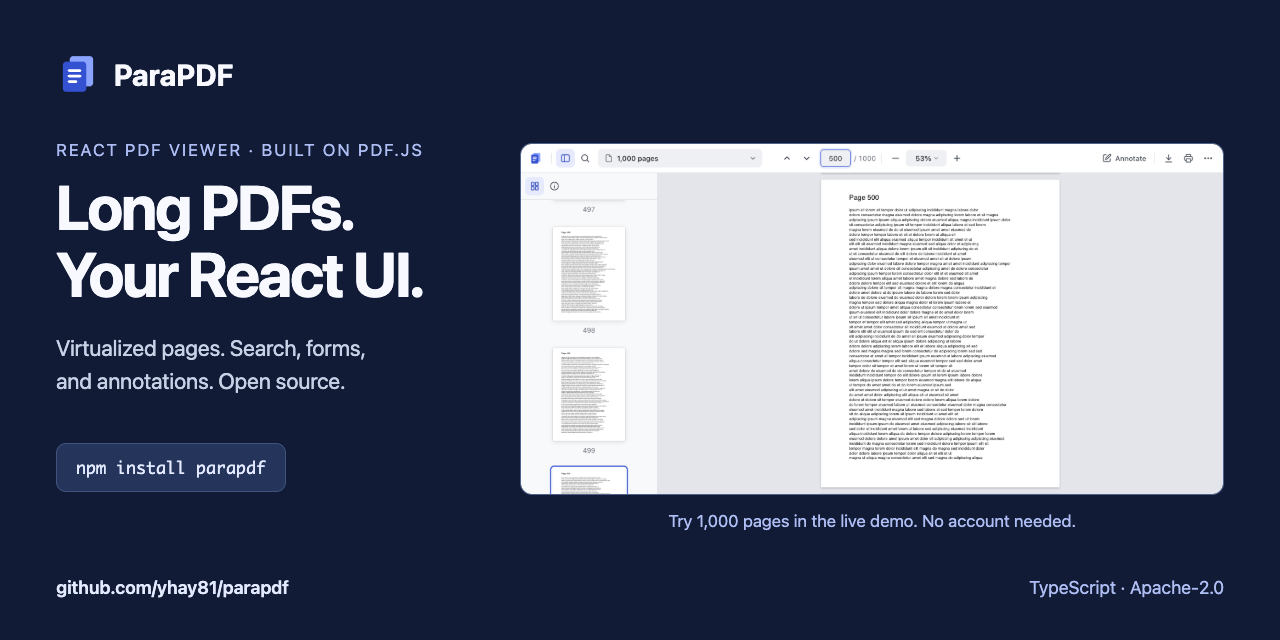
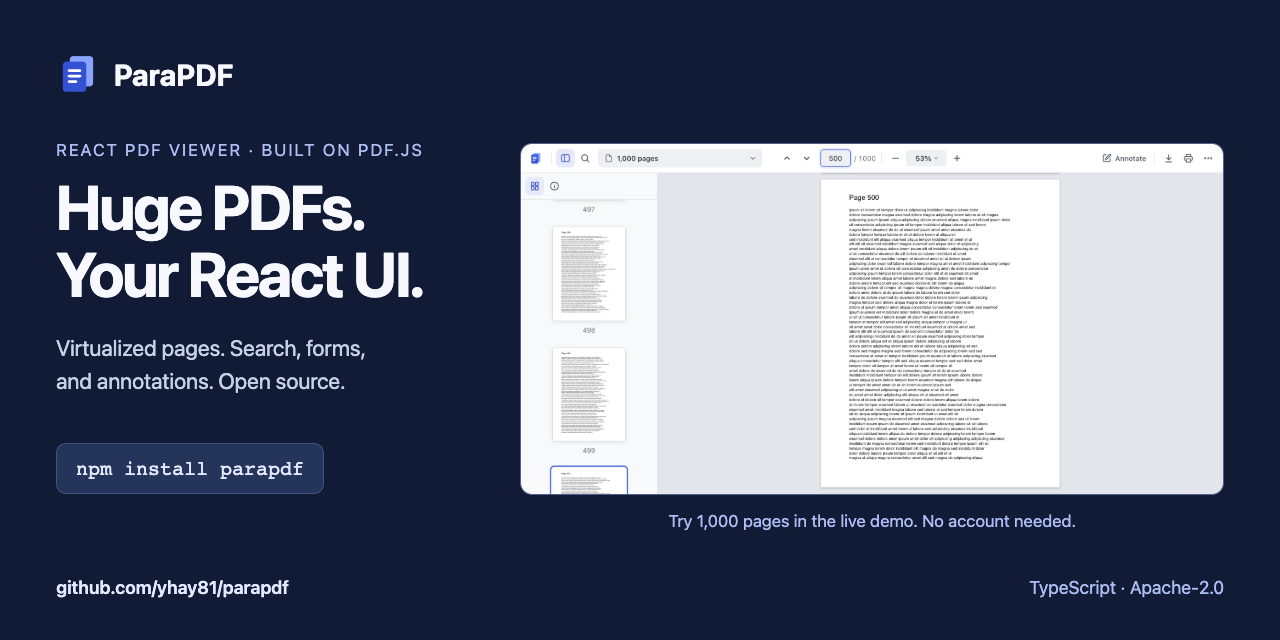
Explain ParaPDF advantages for huge PDFs over react-pdf

Changed region(s): [[0.0312, 0.2812, 0.2812, 0.375], [0.0625, 0.6875, 0.25, 0.7812]]

diff --git a/.github/assets/social-preview.html b/.github/assets/social-preview.html
@@ -41,7 +41,7 @@
         ParaPDF
       </div>
       <p class="category">REACT PDF VIEWER · BUILT ON PDF.JS</p>
-      <h1>Long PDFs.<br />Your React UI.</h1>
+      <h1>Huge PDFs.<br />Your React UI.</h1>
       <p class="description">Virtualized pages. Search, forms,<br />and annotations. Open source.</p>
       <code class="install">npm install parapdf</code>
       <figure class="preview">

diff --git a/README.md b/README.md
@@ -1,6 +1,6 @@
 # ParaPDF
 
-A fast, customizable **React PDF viewer**, built on
+A fast, customizable **React PDF viewer for huge documents**, built on
 [pdf.js](https://github.com/mozilla/pdf.js). Virtualized pages, text selection,
 search, forms, and annotations, with your own React UI.
 
@@ -9,7 +9,7 @@ search, forms, and annotations, with your own React UI.
 · [Performance](https://parapdf.yhay81.com/about/performance/)
 · [npm](https://www.npmjs.com/package/parapdf)
 
-[![ParaPDF: Long PDFs. Your React UI. The live demo shows page 500 of a 1,000-page PDF.](.github/assets/social-preview.png)](https://parapdf.yhay81.com/demo/?file=synthetic-text-1000.pdf)
+[![ParaPDF: Huge PDFs. Your React UI. The live demo shows page 500 of a 1,000-page PDF.](.github/assets/social-preview.png)](https://parapdf.yhay81.com/demo/?file=synthetic-text-1000.pdf)
 
 The demo needs no account. Try the
 [1,000-page document](https://parapdf.yhay81.com/demo/?file=synthetic-text-1000.pdf),
@@ -50,13 +50,32 @@ You build the toolbar and surrounding UI. The
 > npm package; `main` may contain unreleased API changes. See the
 > [changelog](CHANGELOG.md) and [limitations](https://parapdf.yhay81.com/about/limitations/).
 
-## Why ParaPDF?
+## Why not just react-pdf?
+
+[react-pdf](https://github.com/wojtekmaj/react-pdf) gives applications
+`Document` and `Page` components. Its
+[FAQ](https://github.com/wojtekmaj/react-pdf/wiki/Frequently-Asked-Questions#rendering-pdf-is-too-slow-what-can-i-do)
+recommends virtualization for large documents. Our comparison adds
+react-window to do that, so both viewers mount only a window of pages.
+
+ParaPDF needs more than a limit on mounted pages: huge PDFs also need
+control over which pages draw first, how much canvas memory they hold,
+and what happens when the reader zooms or returns to a page. For example,
+[react-pdf 11.0.0 releases a page's canvas when it unmounts](https://github.com/wojtekmaj/react-pdf/blob/v11.0.0/packages/react-pdf/src/Page/Canvas.tsx),
+so remounting draws it again. Adding a shared canvas cache and drawing
+policy would require more viewer infrastructure around those components.
+
+ParaPDF provides that infrastructure on top of the same pdf.js engine:
 
 - **React stays out of the hot path.** Scrolling and zooming commit no React
   state per frame, and pixels never pass through React.
-- **Long documents, bounded rendering.** Pages outside a small window
-  unmount. Visible pages draw a quick base first and full resolution once
-  scrolling settles. Canvas budgets also cover pages kept for a return visit.
+- **Huge documents, bounded rendering.** Pages outside a small window
+  unmount. Visible pages get drawing priority: a quick base first and full
+  resolution once scrolling settles. At high zoom, only the visible region
+  gets full detail within the canvas budget.
+- **Keep work for a return visit.** Unmounted pages retain their canvases
+  within a shared budget. Returning to a page whose canvases are still
+  cached reuses those pixels without drawing them again.
 - **Viewers of their own.** Several viewers and thumbnails share one open
   document, each with its own position, zoom, rotation, and layout.
 - **A document viewer.** Selectable, accessible text, search, links and the
@@ -68,22 +87,28 @@ You build the toolbar and surrounding UI. The
 
 ## Performance, with the trade-offs
 
-An existing comparison with **react-pdf + react-window**, with both viewers
-virtualizing pages: a 110-page PDF at 900 CSS px/s for four seconds, five
-runs, medians, Chromium 156 on an Apple M2 Pro, October 28, 2026.
+In an existing **1,000-page** comparison, ParaPDF used **about 55% less
+canvas memory** and made **about 44% fewer React commits** than
+**react-pdf + react-window** during fast scrolling.
+
+Both viewers virtualized pages. Conditions: 3,600 CSS px/s for four seconds,
+five runs, medians, Chromium 156 on an Apple M2 Pro, 1280×900 at
+devicePixelRatio 2, October 28, 2026. The comparison used react-pdf 11.0.0
+and react-window 2.5.1.
 
 | Measurement | ParaPDF | react-pdf + react-window |
 | --- | ---: | ---: |
-| First paint | 142 ms | 187 ms |
-| React commits during the scroll | 4 | 10 |
-| Canvas memory after settling | 183 MiB | 217 MiB |
-| Main-thread blocked time | 17 ms | 5 ms |
+| First paint | 182 ms | 197 ms |
+| React commits during the scroll | 24 | 43 |
+| Canvas memory after settling | 111 MiB | 249 MiB |
+| Main-thread blocked time | 40 ms | 40 ms |
 
-ParaPDF painted sooner and held less canvas memory in this case, but
-blocked the main thread longer. These are historical results, not a
-benchmark of today's `main`. The stacks used different pdf.js versions
-(6.4.299 and 6.3.289); canvas memory is not total process memory.
-[Full results and reproduction command](examples/prototype/results/compare-react-pdf-110-chromium.md),
+At reading speed (900 CSS px/s) on the same document, ParaPDF still painted
+sooner and held less canvas memory, but blocked the main thread longer:
+7 ms against 4 ms. These are historical results, not a benchmark of today's
+`main`. The stacks used different pdf.js versions (6.4.299 and 6.3.289);
+canvas memory is not total process memory.
+[Full results and reproduction command](examples/prototype/results/compare-react-pdf-1000-chromium.md),
 [comparison decision](docs/decisions/0017-measured-against-react-pdf.md), and
 [results across browsers](https://parapdf.yhay81.com/about/performance/).
 

diff --git a/docs/growth/README.md b/docs/growth/README.md
@@ -6,15 +6,22 @@ package. Current public baseline: **1 star, 0 forks, npm 0.8.0**.
 
 ## Audience and promise
 
-Start with React developers embedding long documents in an application:
+Start with React developers embedding huge PDFs in an application:
 manuals, research readers, and document review tools. They need page
 virtualization and interaction with their own UI, and can try a library
 before adopting it.
 
-Use one message: **A React PDF viewer for long documents, with your own UI.**
+Use one message: **A React PDF viewer for huge documents, with your own UI.**
 Lead with the [1,000-page demo](https://parapdf.yhay81.com/demo/?file=synthetic-text-1000.pdf),
 then a two-component installation example, then measurements and limits.
 Keep search, forms, annotations, and Japanese text as reasons to explore.
+
+Explain why react-pdf alone does not meet the viewer's requirements:
+virtualizing `Page` components limits mounted pages, but the application
+still needs a drawing policy and a shared canvas cache for return visits.
+ParaPDF supplies those, together with canvas budgets and high-zoom detail
+rendering. Support the comparison with the windowed react-pdf measurements,
+not a claim that react-pdf cannot display huge PDFs.
 
 The first hypothesis is that qualified discovery is the bottleneck. Capture
 traffic before changing it; do not infer a conversion rate by dividing
@@ -68,13 +75,15 @@ stars, or coordinate votes on another service.
 
 ## Claims and release checks
 
-- The first-paint comparison is historical: October 28, 2026, five runs,
-  Apple M2 Pro, Chromium 156, 110 pages, 900 CSS px/s for four seconds,
+- The featured comparison is historical: October 28, 2026, five runs,
+  Apple M2 Pro, Chromium 156, 1,000 pages, 3,600 CSS px/s for four seconds,
   1280×900 at devicePixelRatio 2. Link to the
-  [raw report](../../examples/prototype/results/compare-react-pdf-110-chromium.md).
+  [raw report](../../examples/prototype/results/compare-react-pdf-1000-chromium.md).
 - Compare against **windowed react-pdf**, not just an all-pages-mounted
-  example. Report the 17 vs 5 ms main-thread loss beside the first-paint
-  and canvas-memory wins. The two stacks use different pdf.js versions.
+  example. The 111 vs 249 MiB of canvas memory is about 55% less, and
+  24 vs 43 React commits is about 44% fewer. Also report the 7 vs 4 ms
+  main-thread loss at reading speed on the same 1,000-page document.
+  The two stacks use different pdf.js versions.
 - Do not call canvas memory total memory, or Playwright WebKit Safari.
   Do not call the library universally faster or imply worker drawing is
   the default. Do not present an old measurement as a fresh test of `main`.
